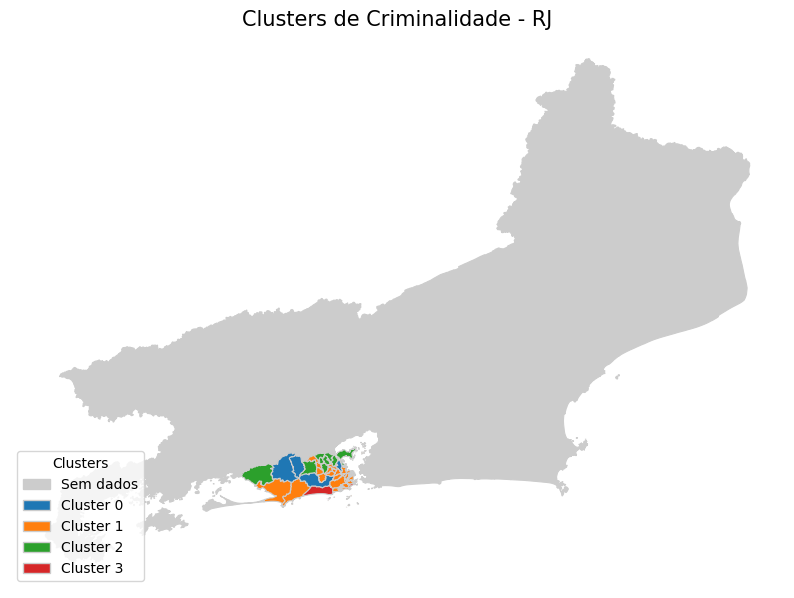
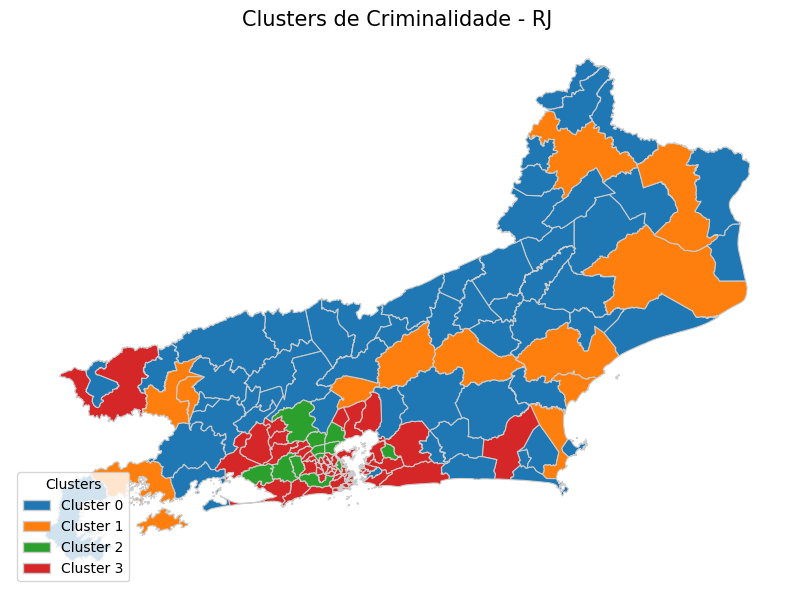
Ajustes no mapa de agrupamento por município

Changed region(s): [[0.0302, 0.0903, 0.9673, 0.9331]]

diff --git a/crime_monitor/backend/app.py b/crime_monitor/backend/app.py
@@ -1072,61 +1072,47 @@ def map_image(group_by):
 
     # 🔹 Soma letalidade por agrupamento
     df_grouped = df.groupby(group_by)["letalidade_violenta"].sum().reset_index()
+    df_grouped[group_by] = df_grouped[group_by].astype(str)
+    gdf[shapefile_col] = gdf[shapefile_col].astype(str)
+    gdf = gdf.merge(df_grouped, left_on=shapefile_col, right_on=group_by, how="left")
+    gdf["letalidade_violenta"] = gdf["letalidade_violenta"].fillna(0)
 
-    if group_by == "cisp":
-        # --- CISP ---
-        cisp_gdf = gpd.read_file(SHAPEFILES["cisp"])
-        if cisp_gdf.crs is None:
-            cisp_gdf = cisp_gdf.set_crs(epsg=4326)
+    # 🔹 Define colunas de código e nome conforme agrupamento
+    if group_by == "mcirc":
+        nome_col = "NM_MUN"
+        codigo_col = "CD_MUN"
 
-        # Converter tipos para merge
-        cisp_gdf['cisp'] = cisp_gdf['cisp'].astype(int)
-        df_grouped['cisp'] = df_grouped['cisp'].astype(int)
+        # Garante que NM_MUN existe
+        if nome_col not in gdf.columns:
+            municipios_ref = gpd.read_file(SHAPEFILES["mcirc"])[["CD_MUN", "NM_MUN"]]
+            municipios_ref["CD_MUN"] = municipios_ref["CD_MUN"].astype(str)
+            gdf = gdf.merge(municipios_ref, on="CD_MUN", how="left")
 
-        # Filtrar CISPs dentro do município
-        if municipio:
-            mcirc_gdf = gpd.read_file(SHAPEFILES["mcirc"])[["NM_MUN", "geometry"]]
-            if mcirc_gdf.crs is None:
-                mcirc_gdf = mcirc_gdf.set_crs(epsg=4326)
-            if mcirc_gdf.crs != cisp_gdf.crs:
-                mcirc_gdf = mcirc_gdf.to_crs(cisp_gdf.crs)
+    elif group_by == "cisp":
+        nome_col = "NOME_CISP" if "NOME_CISP" in gdf.columns else shapefile_col
+        codigo_col = shapefile_col
 
-            mcirc_gdf["NM_MUN"] = mcirc_gdf["NM_MUN"].str.strip().str.lower()
-            mun_shape = mcirc_gdf[mcirc_gdf["NM_MUN"] == municipio.strip().lower()]
-            if mun_shape.empty:
-                return jsonify({"error": f"Município '{municipio}' não encontrado"}), 404
+    elif group_by == "aisp":
+        nome_col = "NOME_AISP" if "NOME_AISP" in gdf.columns else shapefile_col
+        codigo_col = shapefile_col
 
-            # Mantém apenas CISPs que intersectam o município
-            cisp_gdf = cisp_gdf[cisp_gdf.geometry.intersects(mun_shape.unary_union)]
-
-        # Merge com letalidade
-        gdf = cisp_gdf.merge(df_grouped, left_on="cisp", right_on="cisp", how="left")
-        gdf["letalidade_violenta"] = gdf["letalidade_violenta"].fillna(0)
-        nome_col = "cisp"
-        codigo_col = "cisp"
+    elif group_by == "risp":
+        nome_col = "NOME_RISP" if "NOME_RISP" in gdf.columns else shapefile_col
+        codigo_col = shapefile_col
 
     else:
-        # --- Outros agrupamentos (inclusive mcirc) ---
-        df_grouped[group_by] = df_grouped[group_by].astype(str)
-        gdf[shapefile_col] = gdf[shapefile_col].astype(str)
-        gdf = gdf.merge(df_grouped, left_on=shapefile_col, right_on=group_by, how="left")
-        gdf["letalidade_violenta"] = gdf["letalidade_violenta"].fillna(0)
+        nome_col = shapefile_col
+        codigo_col = shapefile_col
 
-        if group_by == "mcirc":
-            nome_col = "NM_MUN"
-            codigo_col = "CD_MUN"
-        else:
-            nome_col = shapefile_col
-            codigo_col = shapefile_col
+    # 🔹 Cria colunas caso ainda não existam
+    if nome_col not in gdf.columns:
+        gdf[nome_col] = ""
+    if codigo_col not in gdf.columns:
+        gdf[codigo_col] = ""
 
-        # Filtra pelo município
-        if municipio and nome_col in gdf.columns:
-            municipio_lower = municipio.strip().lower()
-            gdf = gdf[gdf[nome_col].str.strip().str.lower() == municipio_lower]
-
-    # 🔹 Verifica se há dados
-    if gdf.empty or gdf.geometry.is_empty.all():
-        return jsonify({"error": f"Nenhum dado encontrado para o município '{municipio}'"}), 404
+    # 🔹 Filtra por município, se aplicável
+    if municipio and nome_col in gdf.columns:
+        gdf = gdf[gdf[nome_col] == municipio]
 
     # 🔹 Gera o mapa
     fig, ax = plt.subplots(1, 1, figsize=(10, 10))
@@ -1138,28 +1124,19 @@ def map_image(group_by):
         edgecolor='0.8',
         legend=True
     )
-
-    # 🔹 Zoom automático se filtrou município
-    if municipio:
-        gdf.boundary.plot(ax=ax, color='black', linewidth=1)
-        minx, miny, maxx, maxy = gdf.total_bounds
-        ax.set_xlim(minx - 0.05, maxx + 0.05)
-        ax.set_ylim(miny - 0.05, maxy + 0.05)
-
     ax.set_axis_off()
-    plt.title(f"Letalidade Violenta - {municipio or 'RJ'}", fontsize=15)
+    plt.title("Letalidade Violenta", fontsize=15)
 
-    # 🔹 Salva a imagem
-    params_str = f"{group_by}_{inicio}_{fim}_{municipio or 'RJ'}".replace(" ", "_").replace(":", "_")
+    params_str = f"{group_by}_{inicio}_{fim}_{municipio}".replace(" ", "_").replace(":", "_")
     image_name = f"{params_str}.png"
     image_path = os.path.join(MAP_FOLDER, image_name)
     plt.savefig(image_path, bbox_inches="tight")
     plt.close(fig)
 
-    # 🔹 Retorna dados
+    # 🔹 Normaliza e exporta os dados corretos
     gdf["letalidade_violenta"] = gdf["letalidade_violenta"].fillna(0)
-    gdf[nome_col] = gdf.get(nome_col, "").fillna("")
-    gdf[codigo_col] = gdf.get(codigo_col, "").fillna("")
+    gdf[nome_col] = gdf[nome_col].fillna("")
+    gdf[codigo_col] = gdf[codigo_col].fillna("")
 
     data_saida = gdf[[codigo_col, nome_col, "letalidade_violenta"]].drop_duplicates().to_dict(orient="records")
 
@@ -1167,7 +1144,7 @@ def map_image(group_by):
         "image_url": f"/static/img/{image_name}",
         "data": data_saida
     })
-
+    
 # ===========================
 # API - Features do modelo
 # ===========================
@@ -1454,80 +1431,97 @@ def mapa_clusters():
     group_by = request.args.get("group_by", "mcirc")
     inicio = request.args.get("inicio")
     fim = request.args.get("fim")
-    municipio = request.args.get("municipio")  # <--- filtro adicionado
 
     print(f"Gerando mapa de clusters agrupados por {group_by}...")
-
     shapefile = SHAPEFILES.get(group_by)
     shapefile_col = COLUMN_MAPPING.get(group_by)
     if not shapefile or not shapefile_col:
         return jsonify({"error": "Agrupamento inválido"}), 400
 
-    # --- Carrega shapefile ---
+    # carrega shapefile e garante CRS
     gdf = gpd.read_file(shapefile)
     if gdf.crs is None:
         gdf = gdf.set_crs(epsg=4326)
 
-    # --- Dados de clusters já calculados ---
+    # copia apenas os clusters calculados anteriormente
     df = df_clusters_global.copy()
 
-    # --- Filtros de data ---
+    # === Filtros de data (para consistência visual) ===
     df["data"] = pd.to_datetime(df["ano"].astype(str) + "-" + df["mes"].astype(str) + "-01")
     if inicio:
         df = df[df["data"] >= pd.to_datetime(inicio)]
     if fim:
         df = df[df["data"] <= pd.to_datetime(fim)]
 
-    # --- Agrupa por região ---
+    # === Prepara dados agrupados por região ===
     if group_by not in df.columns:
         return jsonify({"error": f"Coluna '{group_by}' não encontrada nos dados."}), 400
 
     df_grouped = df.groupby(group_by).agg({
-        "cluster": lambda x: x.mode()[0] if not x.mode().empty else -1
+        "cluster": lambda x: x.mode()[0] if not x.mode().empty else -1  # cluster predominante
     }).reset_index()
 
-    # --- Merge com shapefile ---
+    # === Merge com shapefile ===
     gdf[shapefile_col] = gdf[shapefile_col].astype(str)
     df_grouped[group_by] = df_grouped[group_by].astype(str)
     gdf = gdf.merge(df_grouped, left_on=shapefile_col, right_on=group_by, how="left")
     gdf["cluster"] = gdf["cluster"].fillna(-1).astype(int)
 
-    # --- Paleta de cores fixa ---
+    # === Paleta de cores fixa ===
     default_fixed = {
-        0: "#1f77b4", 1: "#ff7f0e", 2: "#2ca02c", 3: "#d62728", 4: "#9467bd",
-        5: "#8c564b", 6: "#e377c2", 7: "#17becf", 8: "#bcbd22", 9: "#7f7f7f",
-        10: "#000000", 11: "#ff1493", 12: "#228b22", 13: "#ffd700", 14: "#00ffff",
-        15: "#ff4500", 16: "#4169e1", 17: "#ff00ff", 18: "#ff8c00", 19: "#a52a2a",
-        20: "#00ff00", 21: "#ff6347", 22: "#40e0d0", 23: "#b22222", 24: "#9932cc",
-        25: "#ffa500", 26: "#4682b4", 27: "#adff2f", 28: "#dc143c", 29: "#00ced1",
-        30: "#8b008b", 31: "#ff69b4", 32: "#9acd32", 33: "#6495ed", 34: "#ffb6c1",
-        35: "#8b0000", 36: "#2f4f4f", -1: "#cccccc"
+        0:  "#1f77b4",  # azul forte
+        1:  "#ff7f0e",  # laranja vibrante
+        2:  "#2ca02c",  # verde médio
+        3:  "#d62728",  # vermelho
+        4:  "#9467bd",  # roxo
+        5:  "#8c564b",  # marrom
+        6:  "#e377c2",  # rosa
+        7:  "#17becf",  # ciano
+        8:  "#bcbd22",  # oliva
+        9:  "#7f7f7f",  # cinza neutro
+        10: "#000000",  # preto
+        11: "#ff1493",  # pink neon
+        12: "#228b22",  # verde floresta
+        13: "#ffd700",  # amarelo ouro
+        14: "#00ffff",  # ciano puro
+        15: "#ff4500",  # laranja avermelhado
+        16: "#4169e1",  # azul royal
+        17: "#ff00ff",  # magenta
+        18: "#ff8c00",  # laranja escuro (substitui o verde escuro)
+        19: "#a52a2a",  # marrom escuro
+        20: "#00ff00",  # verde neon
+        21: "#ff6347",  # tomate
+        22: "#40e0d0",  # turquesa
+        23: "#b22222",  # vermelho ferrugem
+        24: "#9932cc",  # roxo violeta
+        25: "#ffa500",  # laranja puro
+        26: "#4682b4",  # azul aço
+        27: "#adff2f",  # verde-limão
+        28: "#dc143c",  # carmesim
+        29: "#00ced1",  # azul-petróleo
+        30: "#8b008b",  # púrpura escuro
+        31: "#ff69b4",  # rosa claro
+        32: "#9acd32",  # verde amarelado
+        33: "#6495ed",  # azul claro
+        34: "#ffb6c1",  # rosa bebê
+        35: "#8b0000",  # vermelho escuro
+        36: "#2f4f4f",  # cinza-azulado escuro
+        -1: "#aaaaaa"   # neutro
     }
 
     clusters_in_data = sorted(gdf["cluster"].unique())
-    fixed_colors = {c: default_fixed.get(c, f"#{np.random.randint(0, 0xFFFFFF):06x}") for c in clusters_in_data}
+
+    fixed_colors = {}
+    for cluster in clusters_in_data:
+        fixed_colors[cluster] = default_fixed.get(cluster, f"#{np.random.randint(0, 0xFFFFFF):06x}")
+
     gdf["color"] = gdf["cluster"].map(fixed_colors)
 
-    # --- 🔹 Identifica colunas de nome de município ---
-    nome_col = None
-    if "NM_MUN" in gdf.columns:
-        nome_col = "NM_MUN"
-    elif "NOME_MUNICIP" in gdf.columns:
-        nome_col = "NOME_MUNICIP"
-    elif "NOME_CISP" in gdf.columns:
-        nome_col = "NOME_CISP"
-
-    # --- 🔹 Filtro de município (se fornecido) ---
-    if municipio and nome_col and municipio in gdf[nome_col].unique():
-        gdf = gdf[gdf[nome_col] == municipio]
-
-    # --- 🔹 Plot do mapa ---
+    # === Plot ===
     fig, ax = plt.subplots(1, 1, figsize=(10, 10))
     gdf.plot(color=gdf["color"], linewidth=0.8, edgecolor='0.8', ax=ax)
     ax.set_axis_off()
-
-    titulo = f"Clusters de Criminalidade - {municipio}" if municipio else "Clusters de Criminalidade - RJ"
-    plt.title(titulo, fontsize=15)
+    plt.title("Mapa de Clusters de Criminalidade", fontsize=15)
 
     legend_elements = [
         Patch(facecolor=fixed_colors[i], edgecolor='0.8', label=f"Cluster {i}" if i >= 0 else "Sem dados")
@@ -1535,19 +1529,15 @@ def mapa_clusters():
     ]
     ax.legend(handles=legend_elements, title="Clusters", loc="lower left")
 
-    # --- 🔹 Salva imagem ---
-    params_str = f"clusters_{group_by}_{inicio}_{fim}_{municipio or 'RJ'}".replace(" ", "_").replace(":", "_")
+    # nome do arquivo baseado nos filtros
+    params_str = f"clusters_{group_by}_{inicio}_{fim}".replace(" ", "_").replace(":", "_")
     image_name = f"{params_str}.png"
     image_path = os.path.join(MAP_FOLDER, image_name)
 
     plt.savefig(image_path, bbox_inches="tight")
     plt.close(fig)
 
-    # --- Retorna JSON ---
-    return jsonify({
-        "mapa_clusters": f"/static/img/{image_name}",
-        "data": gdf[[shapefile_col, "cluster"]].to_dict(orient="records")
-    })
+    return jsonify({"mapa_clusters": f"/static/img/{image_name}", "data": gdf[[shapefile_col, "cluster"]].to_dict(orient="records")})
 
 @app.route("/api/predizer_cluster", methods=["POST"])
 def predizer_cluster():
